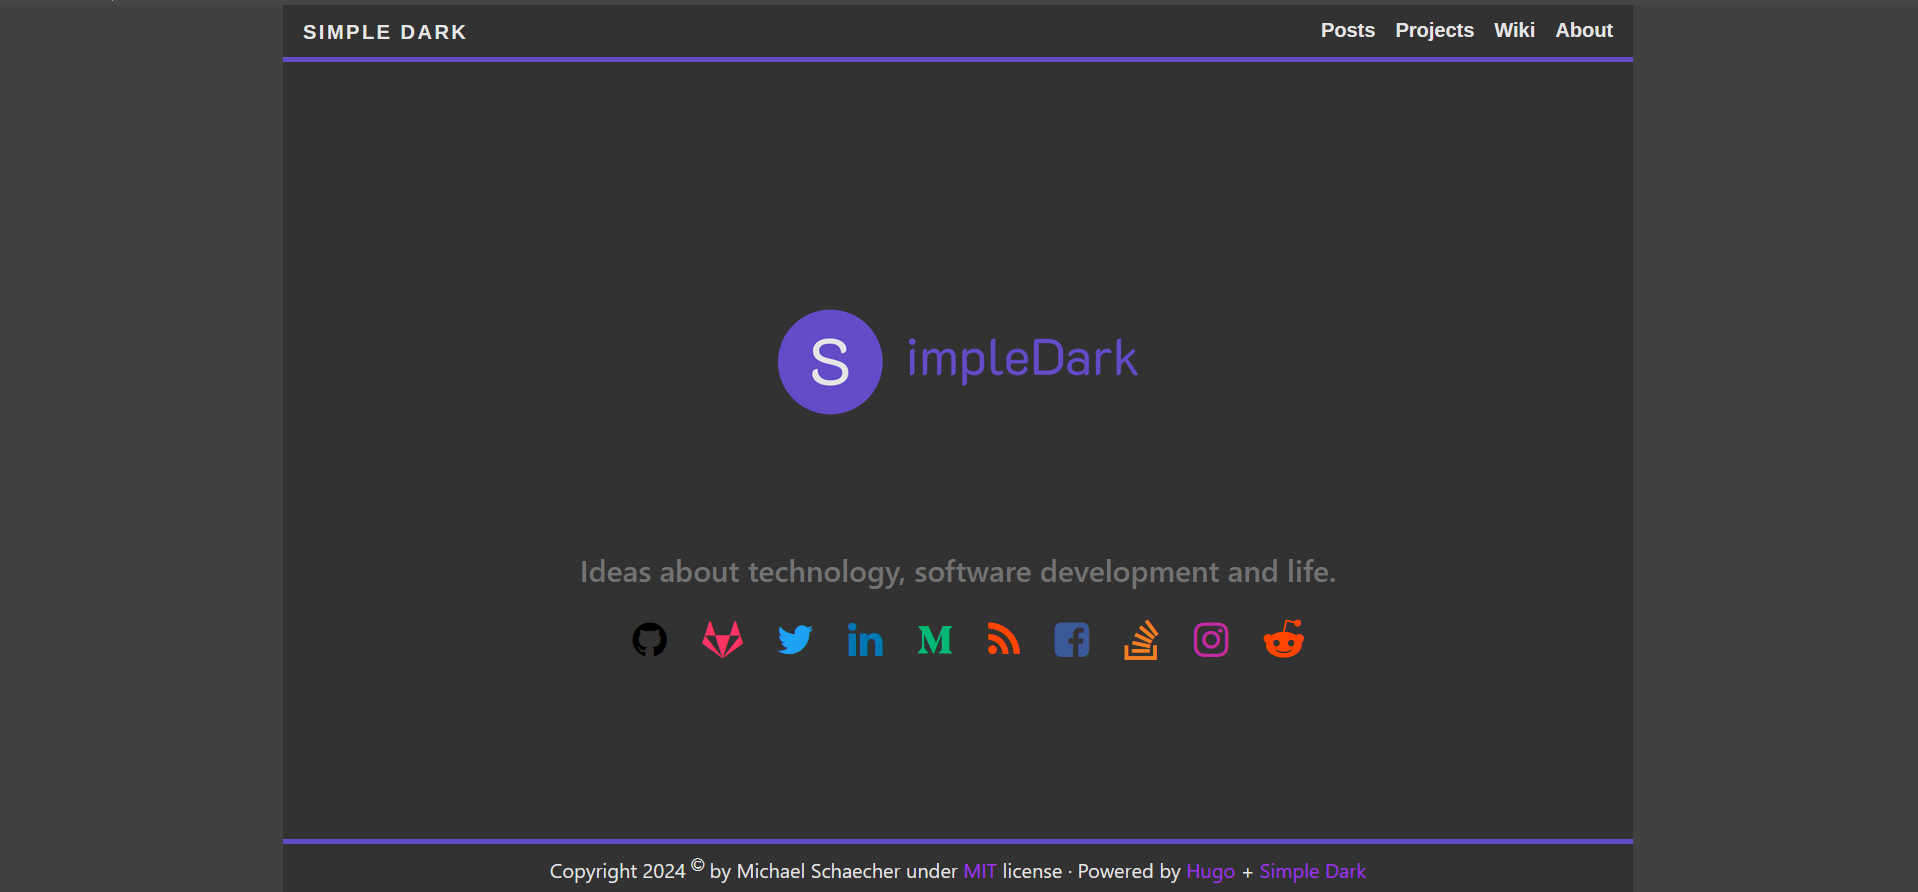
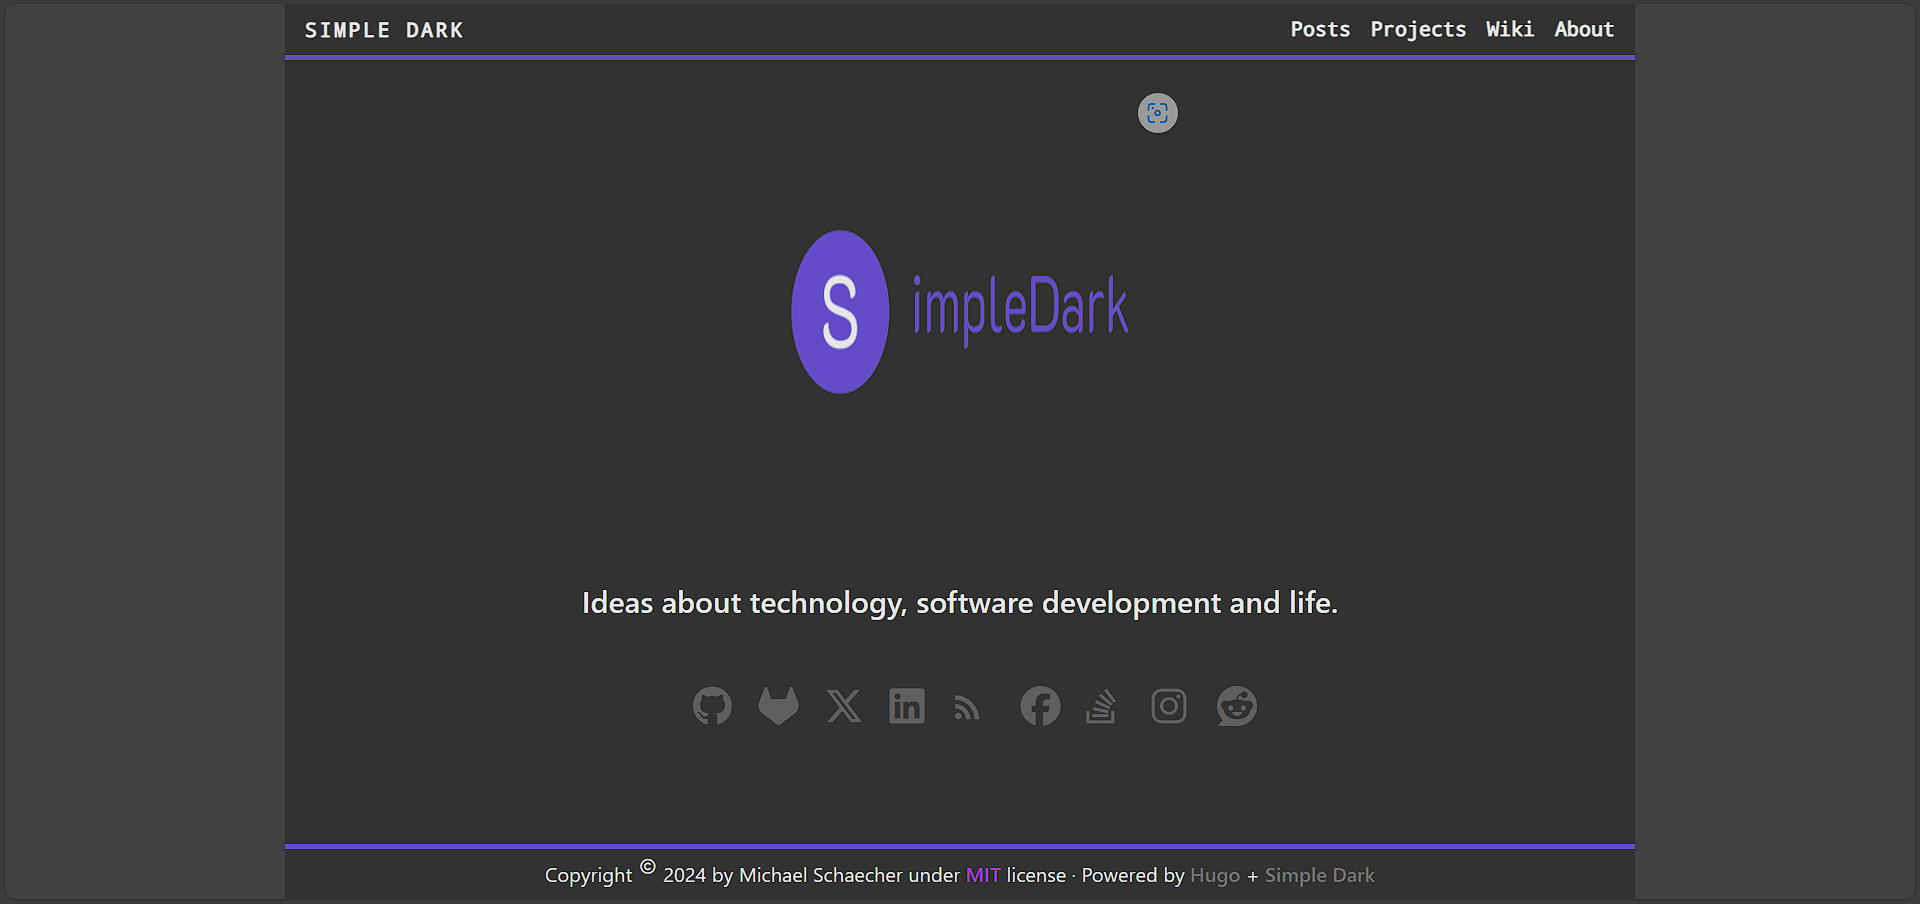
Add info about Font Awesome to README

diff --git a/layouts/partials/head/theme-styles.html b/layouts/partials/head/theme-styles.html
@@ -1,5 +1,5 @@
 <!--  JavaScript for Font Awesome -->
-{{ with .Site.Params.fontawesome.kitCode }}
+{{ with .Site.Params.fontawesomeKit }}
   <script src="https://kit.fontawesome.com/{{ . }}.js" crossorigin="anonymous"></script>
 {{ end }}
 

diff --git a/README.md b/README.md
@@ -20,6 +20,7 @@
   - [Site Parameters](#site-parameters)
   - [Markdown Parameters](#markdown-parameters)
   - [Author, Description and Keywords](#author-description-and-keywords)
+  - [Font Awesome](#font-awesome)
   - [Licensing](#licensing)
   - [See Also](#see-also)
   - [Custom SCSS](#custom-scss)
@@ -37,7 +38,10 @@
 <!-- Using html to set image size and alignment -->
 <div id="live-demo" align="right">
   <a href="https://simple-dark.pages.dev/">
-    <img src="https://raw.githubusercontent.com/MichaelSchaecher/simple-dark/main/images/screenshot.png" alt="Simple Dark Screenshot"></img>
+    <img
+      src="images/screenshot.png"
+      alt="Simple Dark Screenshot"
+    ></img>
   </a>
     <figcaption>Live demo of theme host on Cloudflare pages</figcaption>
 </div>
@@ -49,7 +53,7 @@
 - Syntax highlighting
 - Analytics
 - Comments with hugo compatible commenting systems.
-- Social links using [Font Awesome](https://fontawesome.com/) version 5.15.3
+- Social links using [Font Awesome](https://fontawesome.com/) icons via icon kit.
 - Image management with captions.
 
 ## Installation
@@ -58,8 +62,7 @@ You can install the theme either as a clone or submodule if you are using git or
 
 ### Clone
 
-```console
-# Clone the theme to the themes directory
+``` console
 git clone https://github.com/MichaelSchaecher/simple-dark.git themes/simple-dark
 ```
 
@@ -150,6 +153,12 @@ series:
   - name: Series Name
     weight: 1
 ```
+
+### Font Awesome
+
+The theme uses [Font Awesome](https://fontawesome.com/) icons via the icon kit. You can enable the icon kit by setting the `fontawesomeKit` parameter to the kit code.
+
+You well need to sign up for a free account to get the kit code. The advantage of using the kit code is that you can use the latest icons and you can use the icons in your site without the need to download the icons to your site.
 
 ### Custom SCSS
 
